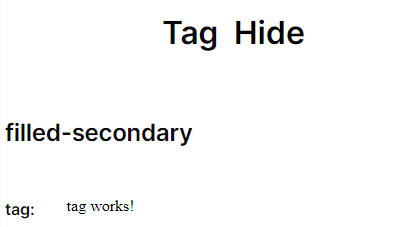
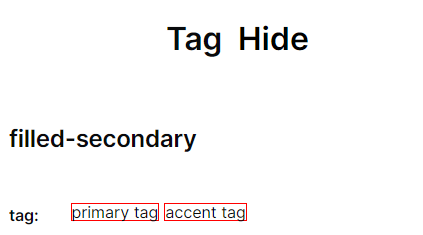
feat: add basic tag comp structure

diff --git a/src/app/shared/ui-kit/tag/tag.component.ts b/src/app/shared/ui-kit/tag/tag.component.ts
@@ -1,10 +1,22 @@
-import { Component } from '@angular/core';
+import { Component, EventEmitter, Input, Output } from '@angular/core'
+import { TagSize, TagStatus, TagType } from './interfaces/tag.interface'
 
 @Component({
-  selector: 'mib-tag',
-  templateUrl: './tag.component.html',
-  styleUrls: ['./tag.component.scss']
+	selector: 'mib-tag',
+	templateUrl: './tag.component.html',
+	styleUrls: ['./tag.component.scss']
 })
 export class TagComponent {
+	@Input() value?: any
+	@Input() size: TagSize = 'l'
+	@Input() status: TagStatus = 'default'
+	@Input() flex: string = 'flex_center'
+	@Input() type: TagType = 'filled-primary'
+	@Input() disabled: boolean = false
+	@Output() onClick: EventEmitter<any> = new EventEmitter<any>()
+	@Output() press: EventEmitter<any> = new EventEmitter<any>()
 
+	ngAfterViewInit() {
+		if (this.disabled) this.status = 'disabled'
+	}
 }

diff --git a/src/app/shared/ui-kit/tag/tag.component.html b/src/app/shared/ui-kit/tag/tag.component.html
@@ -1,1 +1,17 @@
-<p>tag works!</p>
+<button
+	[disabled]="status === 'disabled'"
+	(click)="onClick.emit(value); press.emit($event)"
+	[attr.status]="status"
+	class="tag flex"
+	[ngClass]="'tag_' + size + ' tag_' + type + ' ' + flex"
+	[class.tag_left-iconly]="iconLeft.innerHTML"
+	[class.tag_right-iconly]="iconRight.innerHTML"
+>
+	<div class="tag_icon-wrapper tag_left-wrapper" #iconLeft>
+		<ng-content select="[tag-left-icon]"></ng-content>
+	</div>
+	<ng-content></ng-content>
+	<div class="tag_icon-wrapper tag_right-wrapper" #iconRight>
+		<ng-content select="[tag-right-icon]"></ng-content>
+	</div>
+</button>

diff --git a/src/styles/components/_tag.vars.scss b/src/styles/components/_tag.vars.scss
@@ -1,0 +1,27 @@
+@import 'src/styles/helpers/_icon_tools.scss';
+
+@mixin tag {
+	border: 1px solid red;
+	cursor: pointer;
+	line-height: 100%;
+	width: 100%;
+
+	&_left-iconly .tag_left-wrapper {
+		display: block;
+	}
+
+	&_right-iconly .tag_right-wrapper {
+		display: block;
+	}
+
+	&_icon-wrapper {
+		display: none;
+	}
+
+	&,
+	& > span {
+		@include body-text;
+		user-select: none;
+		white-space: nowrap;
+	}
+}

diff --git a/src/app/shared/modules/mib-ui/mib-ui.component.html b/src/app/shared/modules/mib-ui/mib-ui.component.html
@@ -946,7 +946,8 @@
 	<div style="display: flex; gap: 2rem">
 		<h5>tag:</h5>
 		<div class="test-badge">
-			<mib-tag></mib-tag>
+			<mib-tag>primary tag</mib-tag>
+			<mib-tag type="filled-accent">accent tag</mib-tag>
 		</div>
 	</div>
 	<mib-spacing type="l"></mib-spacing>

diff --git a/src/app/shared/ui-kit/tag/interfaces/tag.interface.ts b/src/app/shared/ui-kit/tag/interfaces/tag.interface.ts
@@ -1,2 +1,8 @@
-export interface TagInterface {
-}
+export type TagSize = 'l' | 'm' | 's'
+export type TagStatus = 'default' | 'hover' | 'active' | 'disabled'
+export type TagType =
+	| 'filled-primary'
+	| 'filled-secondary'
+	| 'floating'
+	| 'filled-accent'
+	| 'outline'

diff --git a/src/styles/components/main.scss b/src/styles/components/main.scss
@@ -6,3 +6,4 @@
 @import './navbar-point';
 @import './table';
 @import './checkbox';
+@import './tag';

diff --git a/src/styles/components/_tag.scss b/src/styles/components/_tag.scss
@@ -1,0 +1,5 @@
+@import 'src/styles/components/_tag.vars';
+
+.tag {
+	@include tag;
+}

diff --git a/src/app/shared/ui-kit/tag/tag.component.scss b/src/app/shared/ui-kit/tag/tag.component.scss
@@ -1,0 +1,3 @@
+:host {
+	align-self: flex-start;
+}
